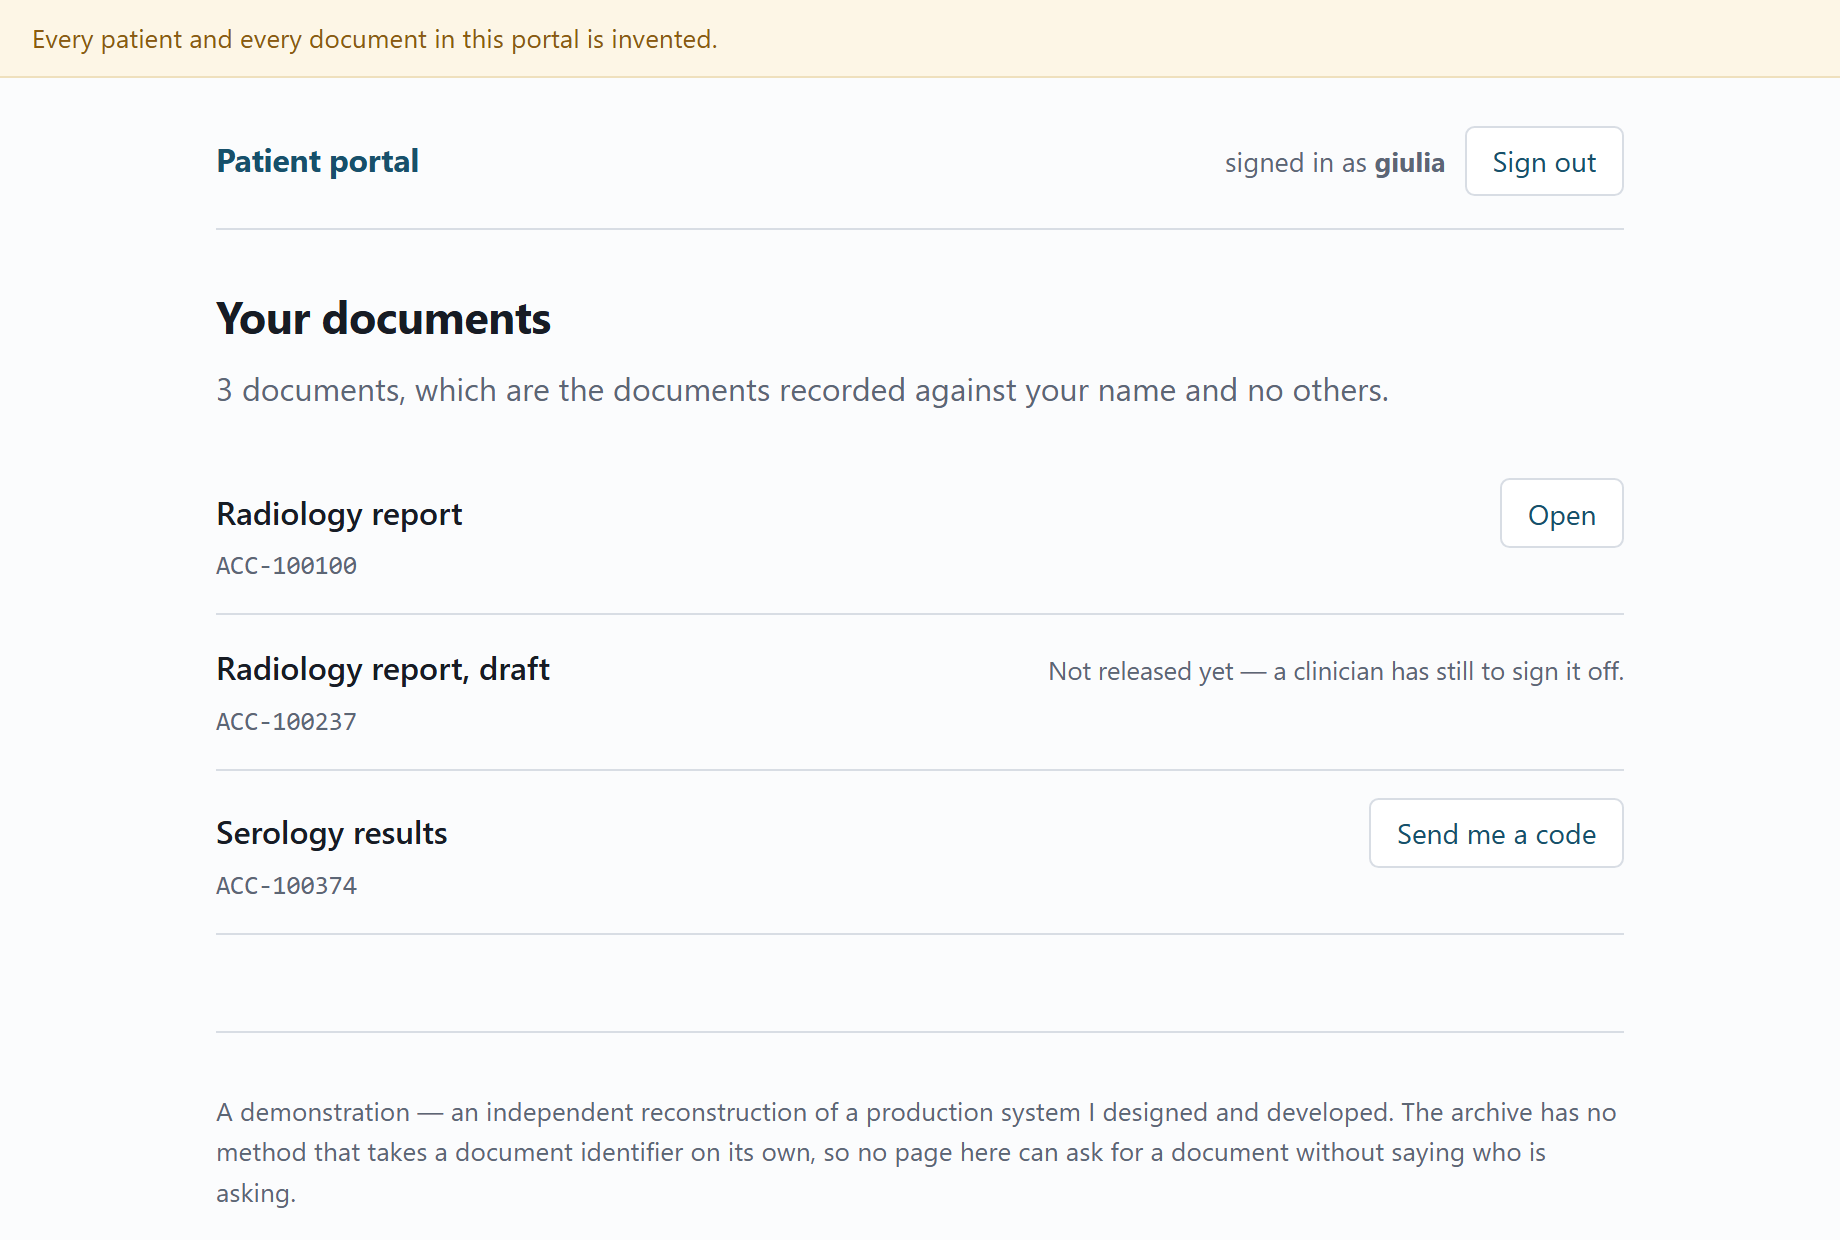
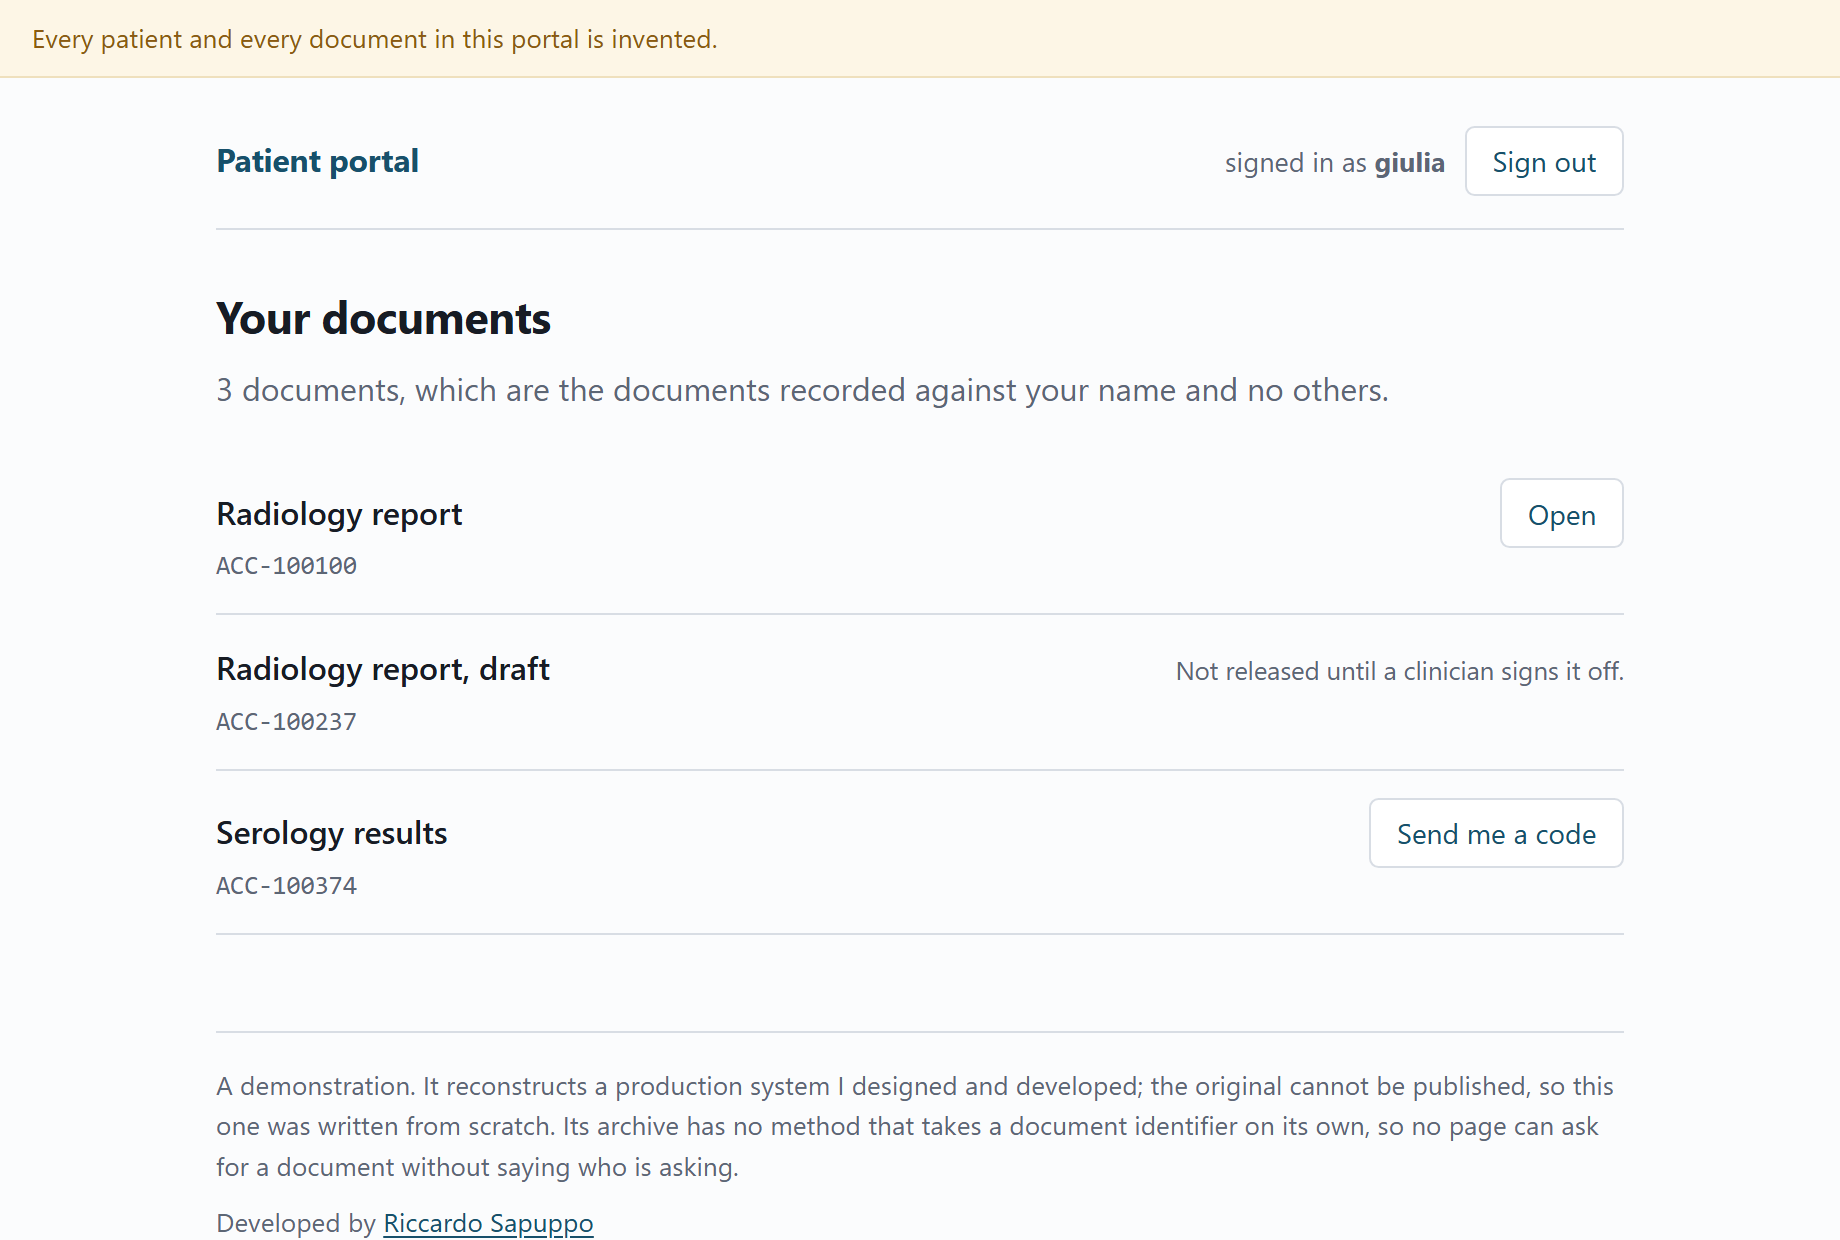
The footer said what this is, never why the original is missing
The line under every demonstration named the thing and named what was invented
in it, and stopped there. It never said why there is a reconstruction at all,
which is the half that matters: the original cannot be published. Somebody who
opens one of these from a direct link never sees the README, so that sentence
existed nowhere they would look.

The same words now open every one of the fourteen interfaces in this portfolio,
character for character, whether the footer lives in an index.html, an Angular
template, a Razor page, a PHP view or a React component.

The name in the signature is a link to the profile, opening in its own tab.
It carries rel=noopener, and that is not decoration: without it the page that
opens gets a handle on this one and can navigate it somewhere else. It does not
carry nofollow, because unlike the link out to a client's live site, this one is
meant to be followed.

The dash was a tic here too. Twenty-three of them on one page, eighty-five
across the eight HTML ones, and this is where somebody actually looks rather
than on GitHub. Most are gone by rewriting the sentence; the ones that stayed
are all the same case, a parenthesis that already holds commas of its own,
where a comma cannot do the work. The proof it was rewritten and not
substituted is the length: the visible text got shorter.

Changed region(s): [[0.1239, 0.8581, 0.8674, 1.0], [0.5576, 0.521, 0.8364, 0.5516]]

diff --git a/src/Portal.Web/wwwroot/portal.css b/src/Portal.Web/wwwroot/portal.css
@@ -92,3 +92,16 @@ input, select { font: inherit; padding: .45rem .55rem; border: 1px solid var(--l
 .code { font-family: ui-monospace, Consolas, monospace; font-size: 1.2rem; letter-spacing: .18em; }
 
 footer { margin-top: 3rem; padding-top: 1rem; border-top: 1px solid var(--line); color: var(--quiet); font-size: .82rem; }
+
+/*
+    The footer carries the only link on the page that leaves it, and a link with
+    no rule of its own comes out in the browser's blue on grey text. It gets the
+    portal's own blue, underlined because colour alone is not a signal, and a
+    ring on keyboard focus for the same reason.
+*/
+footer p { margin: 0 0 .5rem; }
+footer .by { margin-bottom: 0; }
+
+footer a { color: var(--mark); text-decoration: underline; text-underline-offset: .15em; }
+footer a:hover { color: var(--ink); }
+footer a:focus-visible { outline: 2px solid var(--mark); outline-offset: 2px; border-radius: .15rem; }
